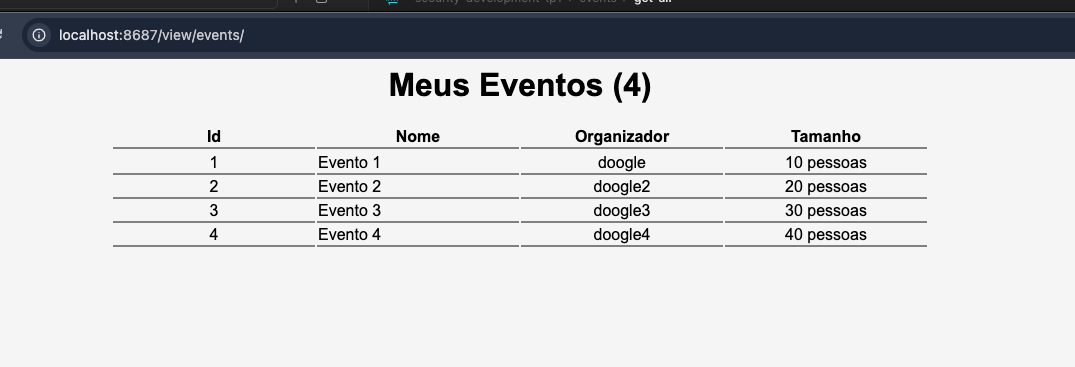
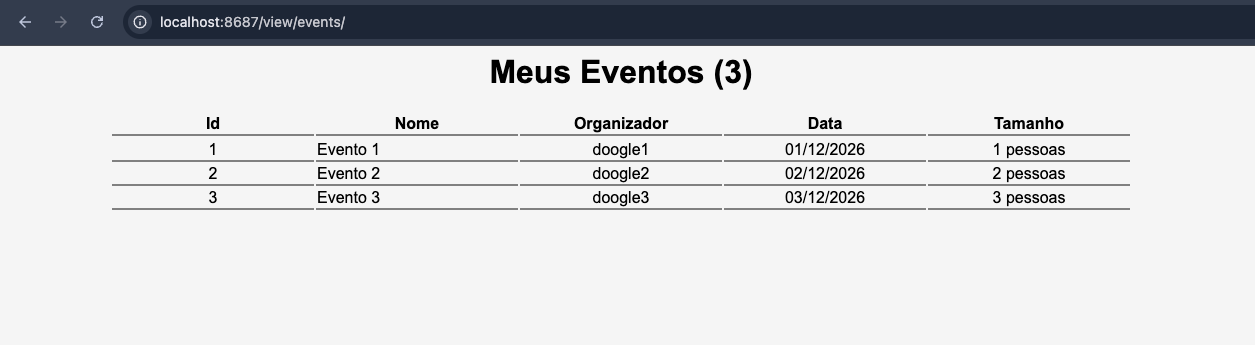
TP1: Exercise 5 - Add date field

Changed region(s): [[0.0921, 0.3478, 0.8902, 0.6957], [0.0, 0.0, 1.0, 0.2899]]

diff --git a/tp1/app/templates/events/index.html b/tp1/app/templates/events/index.html
@@ -10,6 +10,7 @@
             <th class="event-data">Id</th>
             <th class="event-data">Nome</th>
             <th class="event-data">Organizador</th>
+            <th class="event-data">Data</th>
             <th class="event-data">Tamanho</th>
         </thead>
         <tbody>
@@ -18,6 +19,7 @@
                     <td class="text-center event-data">{{ event.id }}</td>
                     <td class="text-start event-data">{{ event.name }}</td>
                     <td class="text-center event-data">{{ event.host }}</td>
+                    <td class="text-center event-data">{{ event.formatted_date() }}</td>
                     <td class="text-center event-data">{{ event.size }} pessoas</td>
                 </tr>
             {% endfor %}

diff --git a/tp1/app/models/events/response_model.py b/tp1/app/models/events/response_model.py
@@ -1,9 +1,11 @@
 from pydantic import BaseModel
+from datetime import date
 
 class ResponseModel(BaseModel):
     id: int
     name: str
     host: str
+    date: date
     size: int
 
     @classmethod
@@ -12,5 +14,9 @@ class ResponseModel(BaseModel):
             id= event_dict['id'],
             name= event_dict['name'],
             host= event_dict['host'],
+            date= event_dict['date'],
             size= event_dict['size']
         )
+
+    def formatted_date(self):
+        return self.date.strftime("%d/%m/%Y")

diff --git a/tp1/app/repositories/events_repository.py b/tp1/app/repositories/events_repository.py
@@ -14,7 +14,7 @@ class EventsRepository:
     def get_by_id(self, id):
         return self.__events_records.get(id)
 
-    def save(self, name, host, size, id=None):
+    def save(self, name, host, date, size, id=None):
         if not id:
             id = self.__generate_id()
 
@@ -22,6 +22,7 @@ class EventsRepository:
             "id": id,
             "name": name,
             "host": host,
+            "date": date,
             "size": size,
             "audit_token": self.__generate_audit_token()
         }

diff --git a/tp1/app/routes/events_alternative_router.py b/tp1/app/routes/events_alternative_router.py
@@ -15,6 +15,7 @@ class EventsAlternativeRouter(BaseRouter):
         created_event = self.__events_repository.save(
             event.name,
             event.host,
+            event.date,
             event.size
         )
 

diff --git a/tp1/app/routes/events_router.py b/tp1/app/routes/events_router.py
@@ -30,6 +30,7 @@ class EventsRouter(BaseRouter):
         created_event = self.__events_repository.save(
             event.name,
             event.host,
+            event.date,
             event.size
         )
 

diff --git a/tp1/app/models/events/new_event_model.py b/tp1/app/models/events/new_event_model.py
@@ -1,6 +1,8 @@
 from pydantic import BaseModel
+from datetime import date
 
 class NewEvent(BaseModel):
     name: str
     host: str
+    date: date
     size: int
